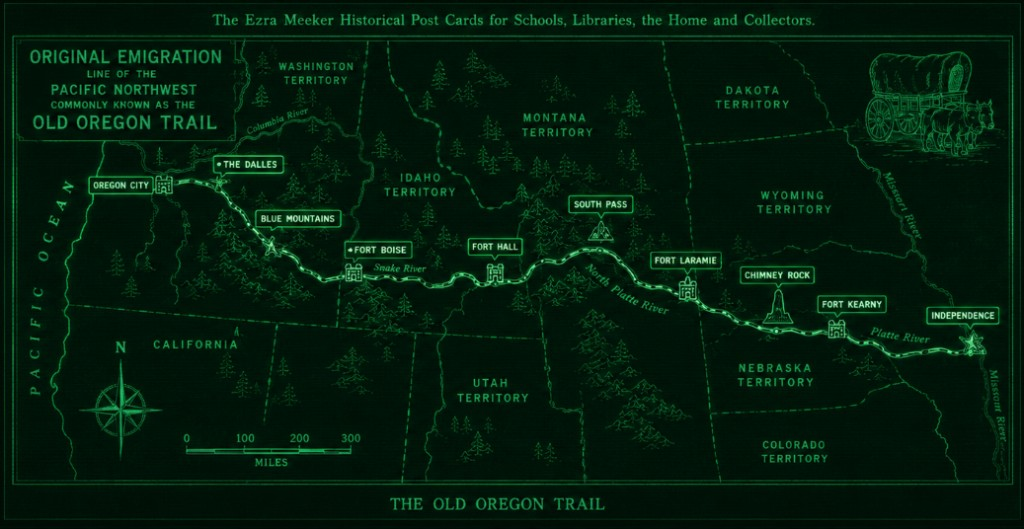
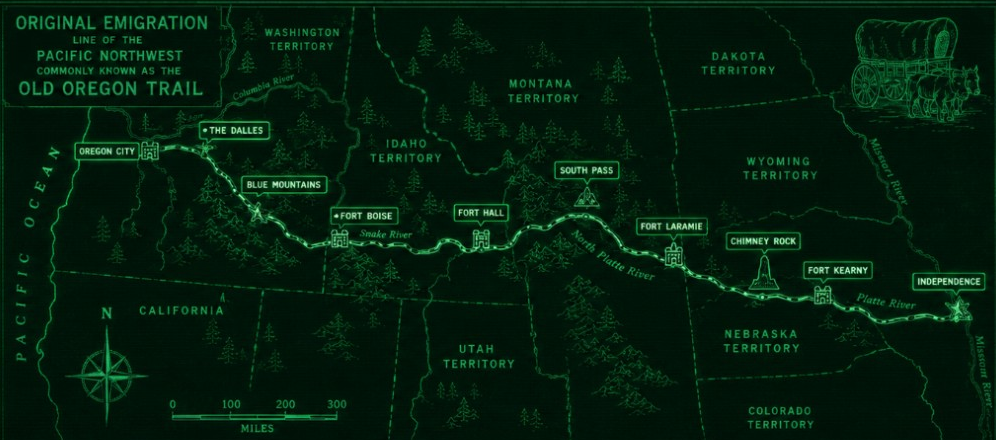
Crop Oregon Trail map to framed art for sharper bigboard display.
Remove postcard margins, retarget wagon coords to 996x440, and use contain rendering at full opacity.

diff --git a/src/game/trailChartCoords.ts b/src/game/trailChartCoords.ts
@@ -1,27 +1,30 @@
 import { TOTAL_TRAIL_MILES } from "./config";
 
-/** Pixel size of `public/art/oregon-trail-map.png` (Ezra Meeker horizontal postcard). */
-export const OREGON_TRAIL_CHART = { width: 1024, height: 529 } as const;
+/** Pixel size of `public/art/oregon-trail-map.png` — cropped to framed map art only. */
+export const OREGON_TRAIL_CHART = { width: 996, height: 440 } as const;
+
+/** Crop applied to the source Meeker postcard (full bleed → map frame). */
+export const OREGON_TRAIL_CHART_CROP = { left: 14, top: 34, width: 996, height: 440 } as const;
 
 /**
  * Trail knots on the chart (0–1 on image pixels).
  * Mile 0 = Independence (east/right) · finish = Oregon City (west/left).
  */
 const CHART_TRAIL: { miles: number; x: number; y: number }[] = [
-  { miles: 0, x: 0.88, y: 0.52 },
-  { miles: 102, x: 0.84, y: 0.5 },
-  { miles: 185, x: 0.81, y: 0.48 },
-  { miles: 304, x: 0.76, y: 0.47 },
-  { miles: 554, x: 0.69, y: 0.44 },
-  { miles: 640, x: 0.63, y: 0.42 },
-  { miles: 830, x: 0.57, y: 0.4 },
-  { miles: 932, x: 0.52, y: 0.39 },
-  { miles: 989, x: 0.47, y: 0.41 },
-  { miles: 1375, x: 0.38, y: 0.44 },
-  { miles: 1548, x: 0.33, y: 0.46 },
-  { miles: 1632, x: 0.24, y: 0.38 },
-  { miles: 1800, x: 0.16, y: 0.36 },
-  { miles: 1990, x: 0.1, y: 0.4 },
+  { miles: 0, x: 0.891, y: 0.548 },
+  { miles: 102, x: 0.85, y: 0.524 },
+  { miles: 185, x: 0.819, y: 0.5 },
+  { miles: 304, x: 0.767, y: 0.488 },
+  { miles: 554, x: 0.695, y: 0.452 },
+  { miles: 640, x: 0.634, y: 0.428 },
+  { miles: 830, x: 0.572, y: 0.404 },
+  { miles: 932, x: 0.521, y: 0.392 },
+  { miles: 989, x: 0.469, y: 0.416 },
+  { miles: 1375, x: 0.377, y: 0.452 },
+  { miles: 1548, x: 0.325, y: 0.476 },
+  { miles: 1632, x: 0.233, y: 0.38 },
+  { miles: 1800, x: 0.15, y: 0.356 },
+  { miles: 1990, x: 0.089, y: 0.404 },
 ];
 
 function interpolateChart(miles: number): { x: number; y: number } {

diff --git a/src/bigboard/bigboard.css b/src/bigboard/bigboard.css
@@ -614,9 +614,9 @@ body {
   position: absolute;
   left: 50%;
   top: 50%;
-  width: min(100cqw, calc(100cqh * 1024 / 529));
+  width: min(100cqw, calc(100cqh * 996 / 440));
   height: auto;
-  aspect-ratio: 1024 / 529;
+  aspect-ratio: 996 / 440;
   max-height: 100cqh;
   transform: translate(-50%, -50%);
   transform-origin: center center;
@@ -870,11 +870,14 @@ html.bb-wall .bb-dock {
   inset: 0;
   width: 100%;
   height: 100%;
-  object-fit: fill;
-  opacity: 0.72;
+  object-fit: contain;
+  object-position: center;
+  opacity: 0.96;
   pointer-events: none;
   z-index: 0;
-  filter: contrast(1.04) saturate(0.92);
+  image-rendering: crisp-edges;
+  image-rendering: -webkit-optimize-contrast;
+  filter: contrast(1.06);
 }
 
 .bb-markers {
@@ -1390,11 +1393,11 @@ html.bb-wall .bb-map-stage {
 }
 
 html.bb-wall .bb-map-inner {
-  width: min(100cqw, calc(100cqh * 1024 / 529));
+  width: min(100cqw, calc(100cqh * 996 / 440));
 }
 
 html.bb-wall .bb-map__raster {
-  opacity: 0.9;
+  opacity: 1;
 }
 
 html.bb-wall .bb-dock {

diff --git a/src/css/trail-map-popup.css b/src/css/trail-map-popup.css
@@ -80,7 +80,7 @@
 .trail-map-popup__inner {
   position: relative;
   width: 100%;
-  aspect-ratio: 1024 / 529;
+  aspect-ratio: 996 / 440;
   max-height: min(58vh, 22rem);
   background: radial-gradient(ellipse 90% 70% at 50% 40%, #042818 0%, #010806 72%);
 }